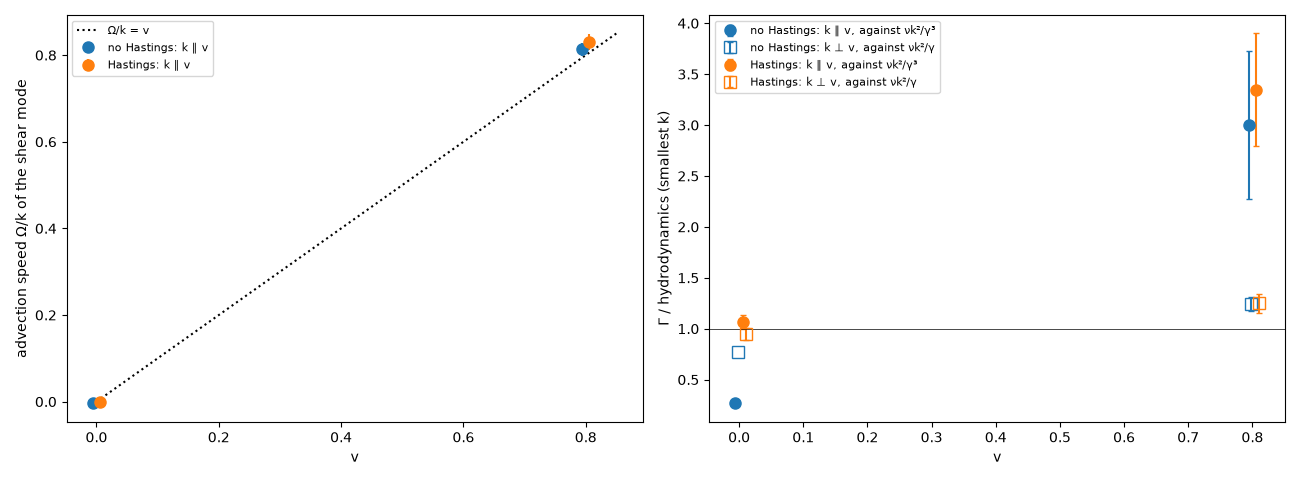
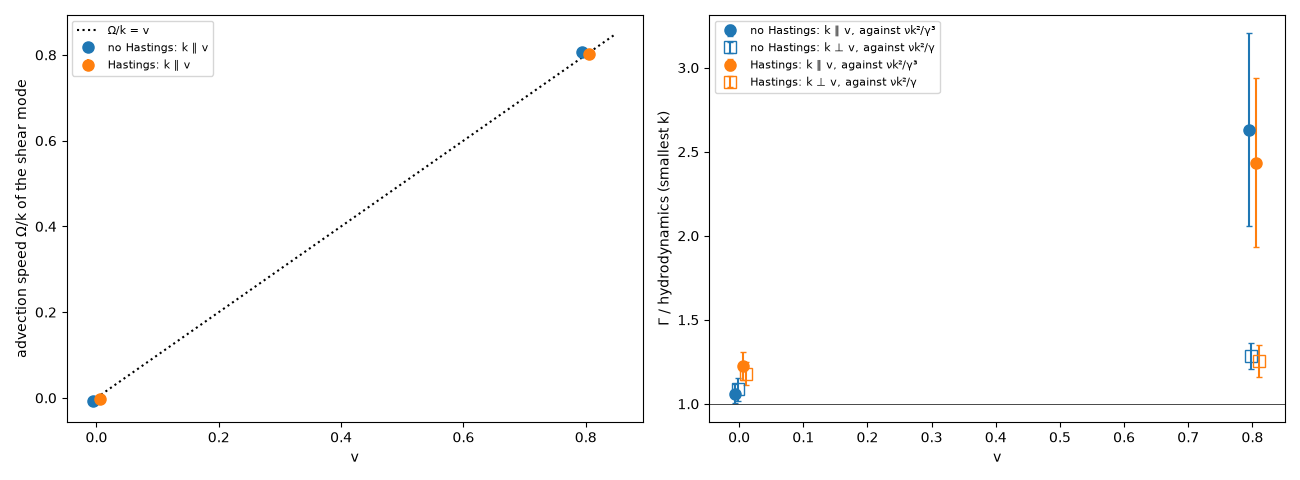
inverse_moment.tex, Stage 2 NERSC: s_a = 16 from the capped rerun (all 96 runs, capped HMC chains) — without the correction 13-19% above HMC at rest, with it 0.98-1.02; the full s_a = 16 figure set and the figure divided by HMC; the corrected dynamics damps shear ~15% faster at s_a = 16; LOG

diff --git a/docs/inverse_moment.tex b/docs/inverse_moment.tex
@@ -866,21 +866,21 @@ moment orange; filled along, open across the flow.}
 \label{sec:nersc2}
 
 \emph{The answer: at rest the Hastings correction is needed --- without it the full dynamics overestimates the equal-time momentum and energy
-fluctuations by about $5\%$ at $s_a=54$ and $20\%$ at $s_a=16$ against HMC of the same model; with it they agree with HMC to $1$--$2\%$.  At $v_0=0.8$
+fluctuations by about $5\%$ at $s_a=54$ and $13$--$19\%$ at $s_a=16$ against HMC of the same model; with it they agree with HMC to $1$--$2\%$.  At $v_0=0.8$
 neither shows a bias within the errors ($2$--$5\%$).}
 
 Campaign \texttt{hastings} (\texttt{nersc/campaign\_hastings.txt}, job 61364382, 8 regular nodes, 18 min; worktree at \texttt{927e035}): \texttt{moment} without
 (nh) and with (h) \texttt{SPH\_HASTINGS=1}, $L=0.6$, $h/a=2$, current defaults, $s_a=16$ and $54$, $v_0=0$ and $0.8$, full step (16 runs each, $t=100$), the
 stochastic step alone (8 runs, $t=50$), and HMC chains of the same model and measure (16 each, 300 updates).
 
-\paragraph{Failed runs.}  20 of the 256 tasks stopped, all at $s_a=16$ \emph{without} the correction (\texttt{hs16\_nh\_v0}: 15 of 16;
-\texttt{hs16\_nh\_alone\_v0}: 4 of 8; \texttt{hs16\_nh\_v0.8}: 1 of 16), with
-\st
-\texttt{DomainError: sqrt of } -6.7\times10^{-16}\quad\text{in } \texttt{sqrt\_comoving} \text{ (stochastic.jl:34), from } \texttt{build\_stars}:
-\stp
-a particle at $|\bm v|=1$ to roundoff, so $1-v^2<0$.  The path with the correction builds the coefficients elsewhere and did not stop.
-That the uncorrected runs reach the light cone at all fits their inflated momentum fluctuations.  A clamp, $\sqrt{\max(1-v^2,0)}$, or a guard in
-\texttt{build\_stars} is needed before they can be rerun; with the same seeds they would stop again.
+\paragraph{The $\gamma$ cap and the rerun at $s_a=16$.}  20 of the 256 tasks stopped, all at $s_a=16$ without the correction, with a
+\texttt{DomainError} in \texttt{sqrt\_comoving}: a particle at $|\bm v|=1$ to roundoff.  The laptop added the cap $\gamma_{\max}=100$ (\texttt{SPH\_GAMMA\_MAX},
+\texttt{dfa4834}: states beyond it have no weight; the comoving structures are capped there), and all eight $s_a=16$ sets were rerun (job 61372840, 96
+runs, all complete), as were the $s_a=16$ HMC chains (job 61374810).  The rerun is \emph{not} bit-identical to the first run, for the corrected runs
+either: already the start differs (the HMC start and the equilibrium draw at $s_a=16$ produced states beyond $\gamma=100$, which now have no weight),
+and so does the time step, set by the extreme particle ($3.1\times10^{-3}\to5.4\times10^{-3}$ at rest).  All $s_a=16$ numbers below are from the capped
+runs against the capped HMC chains; the first, uncapped run is kept apart (\texttt{*\_precap}).  The $s_a=54$ sets did not come near the cap
+($\max|\bm v|\le0.99$).
 
 \paragraph{Equal-time spectra against HMC} (\texttt{examples/hastings\_analysis.jl}, \Fig{fig:hs_spectra}): $\langle|A_{\bm k}|^2\rangle/N$ of the dynamics over that of the
 HMC chains, in bands $kh=0.52$--$1.56$, errors from the spread of the runs:
@@ -889,26 +889,25 @@ HMC chains, in bands $kh=0.52$--$1.56$, errors from the spread of the runs:
 \hline
  & without & with the correction \\ \hline
 $s_a=54$, $v_0=0$: $M_L$, $M_T$, $E$ & $1.02$--$1.06$, $1.02$--$1.08$, $1.05$--$1.06$ ($2$--$5\sigma$) & $1.00\pm0.01$ in all three \\
-$s_a=16$, $v_0=0$: $M_L$, $M_T$, $E$ & $1.15$--$1.39$ (1 run); alone $1.15$--$1.23$ (4 runs) & $0.98$--$1.02$ (16 runs) \\
+$s_a=16$, $v_0=0$: $M_L$, $M_T$, $E$ & $1.16$--$1.19$, $1.16$--$1.18$, $1.13$--$1.15$ ($5$--$18\sigma$); alone $1.16$--$1.22$ & $0.98$--$1.02$; alone $0.99$--$1.06$ \\
 $s_a=54$, $v_0=0.8$ & $1$ within the errors (one band $0.88(9)$) & $1$ within the errors \\
-$s_a=16$, $v_0=0.8$ & $1$ within the errors & $1$ within the errors \\
+$s_a=16$, $v_0=0.8$ & $1$ within the errors & $1$ within the errors (one band $0.85(6)$) \\
 \hline
 \end{tabular}}
 \end{center}
 (For the stochastic step alone at $v_0=0.8$ the HMC chains are not the reference --- the alone runs keep the positions of their start --- and
 both versions scatter alike.)
 
-\paragraph{Acceptances and rejections} (from the running totals in the task logs, mean over the runs that reached them; for the runs that
-stopped, their totals at the stop).  ``nh'' without, ``h'' with the correction; ``light cone'' the fraction of proposals rejected because a
+\paragraph{Acceptances and rejections} (from the running totals in the task logs, mean over the runs; $s_a=16$ from the capped rerun).  ``nh'' without, ``h'' with the correction; ``light cone'' the fraction of proposals rejected because a
 particle would reach $|\bm v|\ge1$:
 \begin{center}
 \resizebox{\textwidth}{!}{\begin{tabular}{llccccc}
 \hline
 set & runs (complete) & stress acc., nh / h & residual acc., nh / h & $\Delta$ residual & light cone, residual, nh / h \\ \hline
-$s_a=16$, $v_0=0$, full & $1$ / $16$ & $0.907$ / $0.913$ & $0.643$ / $0.444$ & $-0.20$ & $0.12$ / $0.11$ \\
-$s_a=16$, $v_0=0$, alone & $4$ / $8$ & $0.914$ / $0.921$ & $0.653$ / $0.454$ & $-0.20$ & $0.11$ / $0.09$ \\
-$s_a=16$, $v_0=0.8$, full & $15$ / $16$ & $0.970$ / $0.969$ & $0.837$ / $0.541$ & $-0.30$ & $9\times10^{-3}$ / $8\times10^{-3}$ \\
-$s_a=16$, $v_0=0.8$, alone & $8$ / $8$ & $0.970$ / $0.967$ & $0.833$ / $0.530$ & $-0.30$ & $9\times10^{-3}$ / $9\times10^{-3}$ \\
+$s_a=16$, $v_0=0$, full & $16$ / $16$ & $0.917$ / $0.920$ & $0.644$ / $0.441$ & $-0.20$ & $0.12$ / $0.10$ \\
+$s_a=16$, $v_0=0$, alone & $8$ / $8$ & $0.920$ / $0.923$ & $0.623$ / $0.408$ & $-0.22$ & $0.11$ / $0.10$ \\
+$s_a=16$, $v_0=0.8$, full & $16$ / $16$ & $0.970$ / $0.969$ & $0.835$ / $0.541$ & $-0.29$ & $9\times10^{-3}$ / $7\times10^{-3}$ \\
+$s_a=16$, $v_0=0.8$, alone & $8$ / $8$ & $0.970$ / $0.968$ & $0.835$ / $0.534$ & $-0.30$ & $8\times10^{-3}$ / $8\times10^{-3}$ \\
 $s_a=54$, $v_0=0$, full & $16$ / $16$ & $0.951$ / $0.952$ & $0.660$ / $0.622$ & $-0.04$ & $8\times10^{-5}$ / $5\times10^{-5}$ \\
 $s_a=54$, $v_0=0$, alone & $8$ / $8$ & $0.952$ / $0.952$ & $0.664$ / $0.625$ & $-0.04$ & $5\times10^{-5}$ / $4\times10^{-5}$ \\
 $s_a=54$, $v_0=0.8$, full & $16$ / $16$ & $0.970$ / $0.970$ & $0.817$ / $0.644$ & $-0.17$ & $10^{-7}$ / $4\times10^{-8}$ \\
@@ -927,10 +926,10 @@ quantiles over the windows of all runs):
 \resizebox{\textwidth}{!}{\begin{tabular}{lrcccccc}
 \hline
 set & windows & stress: mean & stress: rms & residual: mean (10\%, 90\%) & residual: rms & rms $>10$ & rms $>100$ \\ \hline
-$s_a=16$, $v_0=0$, full & $114\,358$ & $-1.1\times10^{-3}$ & $0.040$ & $-50$ ($-1.4\times10^4$, $-3.9$) & $1.7\times10^3$ & $99\%$ & $83\%$ \\
-$s_a=16$, $v_0=0$, alone & $28\,430$ & $-1.1\times10^{-3}$ & $0.040$ & $-44$ ($-1.1\times10^4$, $-5.1$) & $1.4\times10^3$ & $100\%$ & $85\%$ \\
-$s_a=16$, $v_0=0.8$, full & $185\,991$ & $-3.9\times10^{-4}$ & $0.029$ & $-1.33$ ($-2.28$, $-0.84$) & $4.7$ & $14\%$ & $2.1\%$ \\
-$s_a=16$, $v_0=0.8$, alone & $43\,140$ & $-4.6\times10^{-4}$ & $0.031$ & $-1.58$ ($-2.19$, $-1.31$) & $5.7$ & $18\%$ & $2.5\%$ \\
+$s_a=16$, $v_0=0$, full & $109\,216$ & $-1.1\times10^{-3}$ & $0.041$ & $-63$ ($-1.8\times10^4$, $-4.1$) & $2.1\times10^3$ & $100\%$ & $84\%$ \\
+$s_a=16$, $v_0=0$, alone & $20\,138$ & $-1.6\times10^{-3}$ & $0.049$ & $-305$ ($-8.3\times10^4$, $-19$) & $1.2\times10^4$ & $100\%$ & $98\%$ \\
+$s_a=16$, $v_0=0.8$, full & $197\,085$ & $-3.4\times10^{-4}$ & $0.029$ & $-1.44$ ($-2.24$, $-0.41$) & $4.8$ & $14\%$ & $1.8\%$ \\
+$s_a=16$, $v_0=0.8$, alone & $44\,995$ & $-4.2\times10^{-4}$ & $0.031$ & $-1.73$ ($-2.22$, $-0.84$) & $5.6$ & $16\%$ & $1.9\%$ \\
 $s_a=54$, $v_0=0$, full & $46\,192$ & $-9.6\times10^{-5}$ & $0.007$ & $-0.36$ ($-0.44$, $-0.31$) & $1.8$ & $2.6\%$ & $0.4\%$ \\
 $s_a=54$, $v_0=0$, alone & $11\,802$ & $-9.0\times10^{-5}$ & $0.007$ & $-0.35$ ($-0.42$, $-0.29$) & $1.8$ & $1.8\%$ & $0.2\%$ \\
 $s_a=54$, $v_0=0.8$, full & $76\,976$ & $-7.4\times10^{-5}$ & $0.013$ & $-0.54$ ($-0.58$, $-0.50$) & $1.6$ & $0$ & $0$ \\
@@ -939,16 +938,26 @@ $s_a=54$, $v_0=0.8$, alone & $19\,240$ & $-7.2\times10^{-5}$ & $0.013$ & $-0.54$
 \end{tabular}}
 \end{center}
 The stress ratios are tiny everywhere.  The residual ratios are of order one at $s_a=54$ and at $s_a=16$ in the moving fluid, with a negative mean
-(the reason for the extra rejections), and rare large windows.  At $s_a=16$ at rest they are large in almost every window (median rms $1.7\times10^3$,
-maxima $\sim10^{18}$): residual covariances close to singular in many stars.  The spectra still agree with HMC there, but the residual move is then
+(the reason for the extra rejections), and rare large windows.  At $s_a=16$ at rest they are large in almost every window (median rms $2.1\times10^3$,
+maxima $\sim10^{13}$ with the cap, $\sim10^{18}$ before): residual covariances close to singular in many stars.  The spectra still agree with HMC there, but the residual move is then
 decided by $q'/q$ rather than by $\Delta S$.
 
-\paragraph{Kinetic energy and damping} (\texttt{boost\_analysis.jl}, groups HS54, HS16; Figs.~\ref{fig:hs54_et}--\ref{fig:hs16_shear8}).  KE$/2VwT$ against the continuum:
-$s_a=54$: $0.987$ (without) and $0.948$ (with) at rest, $16.80$ and $16.37$ at $v_0=0.8$; $s_a=16$, with: $0.854$ and $14.61$.  The corrected values are lower,
-as is the HMC equilibrium of the same model at finite $s_a$.  The shear damping at $s_a=54$ is the same without and with the correction within the
-errors ($0.92$--$1.11$ at rest, $1.13$--$1.33$ along and $0.97$--$1.20$ across at $v_0=0.8$).  At $s_a=16$, $v_0=0.8$ the advected shear mode is far from
-hydrodynamics in both versions ($\Gamma/\Gamma_{\rm hydro}\approx3$ at $kh=0.52$, $2$ at $1.05$; $\Omega/k=0.81$--$0.83$ against $0.80$): a limit of the dynamics at this
-entropy per particle, not of the correction.  $\Delta H/H$: $2\times10^{-5}$--$2.5\times10^{-4}$ at $s_a=54$, $\sim10^{-3}$ at $16$.
+\paragraph{Kinetic energy and damping} (\texttt{boost\_analysis.jl}, groups HS54, HS16; Figs.~\ref{fig:hs54_et}--\ref{fig:hs16_last}).  KE$/2VwT$ against the
+continuum, without / with the correction: $s_a=54$: $0.987$ / $0.948$ at rest, $16.80$ / $16.37$ at $v_0=0.8$; $s_a=16$: $0.972$ / $0.849$ and $15.55$ / $14.20$.  The
+corrected values are lower, as is the HMC equilibrium of the same model at finite $s_a$.
+\begin{center}
+\resizebox{\textwidth}{!}{\begin{tabular}{lcccc}
+\hline
+shear $\Gamma/\Gamma_{\rm hydro}$, without / with & at rest, $kh=0.52$, $\bm k$ along $x$, $y$ & at rest, $kh=1.05$, $x$, $y$ & $v_0=0.8$, $kh=0.52$, along, across & $v_0=0.8$, $kh=1.05$, along, across \\ \hline
+$s_a=54$ & $0.92(8)$, $0.99(7)$ / $0.95(7)$, $1.10(6)$ & $1.00(4)$, $1.04(4)$ / $1.11(2)$, $1.05(2)$ & $1.33(18)$, $1.20(13)$ / $1.13(15)$, $1.20(9)$ & $1.22(8)$, $1.17(4)$ / $1.20(8)$, $0.97(4)$ \\
+$s_a=16$ & $1.06(6)$, $1.09(7)$ / $1.22(8)$, $1.18(7)$ & $1.09(4)$, $1.02(4)$ / $1.24(5)$, $1.17(4)$ & $2.6(6)$, $1.29(8)$ / $2.4(5)$, $1.25(10)$ & $1.68(18)$, $1.17(4)$ / $1.71(20)$, $1.07(3)$ \\
+\hline
+\end{tabular}}
+\end{center}
+At $s_a=16$ at rest the corrected dynamics damps the shear mode $\approx15\%$ faster than the uncorrected one ($1.17$--$1.24$ against $1.02$--$1.09$, about
+$2\sigma$ per fit, the same in all four); at $s_a=54$ the same tendency is weaker.  Along the flow at $s_a=16$, $v_0=0.8$ both are far from
+hydrodynamics ($\Gamma/\Gamma_{\rm hydro}\approx2.5$ at $kh=0.52$, $1.7$ at $1.05$): a limit of the dynamics at this entropy per particle, not of the correction.
+$\Delta H/H$: $2\times10^{-5}$--$2.5\times10^{-4}$ at $s_a=54$, $2\times10^{-4}$--$2\times10^{-3}$ at $16$.
 
 \begin{figure}[p]
 \includegraphics[width=\textwidth]{figs/hastings_nersc_spectra.png}
@@ -1001,12 +1010,45 @@ entropy per particle, not of the correction.  $\Delta H/H$: $2\times10^{-5}$--$2
 \end{figure}
 \begin{figure}[p]
 \includegraphics[width=\textwidth]{figs/hastings_nersc_HS16_equaltime.png}
-\caption{$s_a=16$: equal-time $C_{AA}(\bm k,0)/\chi_{AA}$, without (1 run at rest, 15 at $v_0=0.8$) and with (16) the correction.}
+\caption{$s_a=16$ (capped rerun): equal-time $C_{AA}(\bm k,0)/\chi_{AA}$, without and with the correction (key at the top); 16 runs each.}
+\label{fig:hs16_et}
+\end{figure}
+\begin{figure}[p]
+\includegraphics[width=\textwidth]{figs/hastings_nersc_HS16_equaltime_hmc.png}
+\caption{$s_a=16$: as \Fig{fig:hs16_et}, divided by HMC of the same model and measure (16 capped chains) instead of by $\chi$.  At rest the runs without the correction lie $10$--$22\%$ above HMC, with it on $1$.  \texttt{examples/equaltime\_over\_hmc.jl}.}
+\end{figure}
+\begin{figure}[p]
+\includegraphics[width=\textwidth]{figs/hastings_nersc_HS16_fit.png}
+\caption{$s_a=16$: $\Omega/k$ and $\Gamma/\Gamma_{\rm hydro}$ of the shear mode at $kh=0.52$ against $v_0$, without (blue) and with (orange) the correction; filled along, open across.}
+\end{figure}
+\begin{figure}[p]
+\includegraphics[width=\textwidth]{figs/hastings_nersc_HS16_shear_v0.0.png}
+\caption{$s_a=16$, at rest: the shear mode $\mathrm{Re}\,C_{yy}(k\hat x,\tau)$ at $kh=0.52$; without (left) and with (right) the correction; dashed hydrodynamics.}
+\end{figure}
+\begin{figure}[p]
+\includegraphics[width=\textwidth]{figs/hastings_nersc_HS16_soundpar_v0.0.png}
+\caption{$s_a=16$, at rest: sound, $\mathrm{Re}\,C_{xx}(k\hat x,\tau)$; without (left) and with (right) the correction; dashed hydrodynamics.}
 \end{figure}
 \begin{figure}[p]
 \includegraphics[width=\textwidth]{figs/hastings_nersc_HS16_shear_v0.8.png}
-\caption{$s_a=16$, $v_0=0.8$: the advected shear mode $\mathrm{Re}\,C_{yy}(k\hat x,\tau)$ at $kh=0.52$, without (left) and with (right) the correction: far from hydrodynamics in both.}
-\label{fig:hs16_shear8}
+\caption{$s_a=16$, $v_0=0.8$: the advected shear mode $\mathrm{Re}\,C_{yy}(k\hat x,\tau)$ (far from hydrodynamics in both); without (left) and with (right) the correction; dashed hydrodynamics.}
+\end{figure}
+\begin{figure}[p]
+\includegraphics[width=\textwidth]{figs/hastings_nersc_HS16_soundpar_v0.8.png}
+\caption{$s_a=16$, $v_0=0.8$: sound along the flow, $\mathrm{Re}\,C_{xx}(k\hat x,\tau)$; without (left) and with (right) the correction; dashed hydrodynamics.}
+\end{figure}
+\begin{figure}[p]
+\includegraphics[width=\textwidth]{figs/hastings_nersc_HS16_EEpar_v0.8.png}
+\caption{$s_a=16$, $v_0=0.8$: $\mathrm{Re}\,C_{EE}(k\hat x,\tau)$; without (left) and with (right) the correction; dashed hydrodynamics.}
+\end{figure}
+\begin{figure}[p]
+\includegraphics[width=\textwidth]{figs/hastings_nersc_HS16_soundperp_v0.8.png}
+\caption{$s_a=16$, $v_0=0.8$: sound across the flow, $\mathrm{Re}\,C_{yy}(k\hat y,\tau)$; without (left) and with (right) the correction; dashed hydrodynamics.}
+\end{figure}
+\begin{figure}[p]
+\includegraphics[width=\textwidth]{figs/hastings_nersc_HS16_shearperp_v0.8.png}
+\caption{$s_a=16$, $v_0=0.8$: across the flow, $\mathrm{Re}\,C_{xx}(k\hat y,\tau)$ (shear and sound); without (left) and with (right) the correction.}
+\label{fig:hs16_last}
 \end{figure}
 
 \end{document}

diff --git a/nersc/LOG.md b/nersc/LOG.md
@@ -4,6 +4,14 @@ Running record of what has been set up and run at NERSC (Perlmutter CPU), newest
 Agents: read this before submitting anything, and add an entry when you submit, finish,
 or learn something about running the code here.
 
+**2026-11-16 (NERSC): s_a = 16 rerun with the γ cap (dfa4834)** — campaign_hastings_s16.txt, job 61372840 (4 debug nodes, 29 min, all 96
+complete), and the s_a = 16 HMC chains, campaign_hastings_hq16.txt, job 61374810 (1 debug node, 7 min).  Pre-cap output kept as *_precap.
+**Not bit-identical**, for the corrected runs too: the start already differs (the HMC start / equilibrium draw at s_a = 16 produced states
+beyond γ = 100) and so does dt (3.1e-3 → 5.4e-3 at rest).  So the hs16 *with* runs did reach γ > 100 (at least at the start).  Results with
+the cap: at rest without the correction 13–19% above HMC in M_L, M_T, E (16 runs, 5–18σ), with it 0.98–1.02; v0 = 0.8 both ≈ 1.  New: at
+s_a = 16 at rest the corrected dynamics damps the shear mode ≈ 15% faster (1.17–1.24 vs 1.02–1.09).  Residual log-ratio tails remain (max
+~1e13).  docs/inverse_moment.tex, Stage 2 NERSC section updated; Fig. "divided by HMC" added for s_a = 16 and 54 (examples/equaltime_over_hmc.jl).
+
 **2026-11-15 (NERSC): campaign `hastings` done** (61364382, 8 nodes, 18 min ≈ 2.4 node-hours).  docs/inverse_moment.tex, new last section
 "Stage 2: results from NERSC" (figures hastings_nersc_*).  Answer: at rest the correction is needed — without it the full dynamics is ≈ 5%
 (s_a = 54) and ≈ 20% (s_a = 16) above HMC of the same model in ⟨|M_L|²⟩, ⟨|M_T|²⟩, ⟨|E|²⟩; with it 1.00 ± 0.01–0.02.  At v0 = 0.8 no bias
